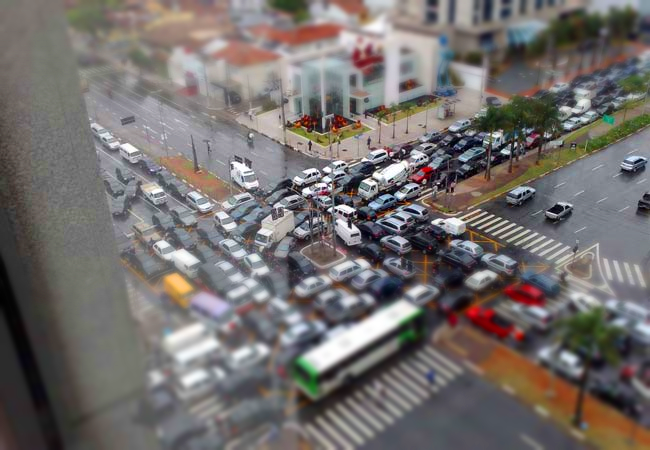
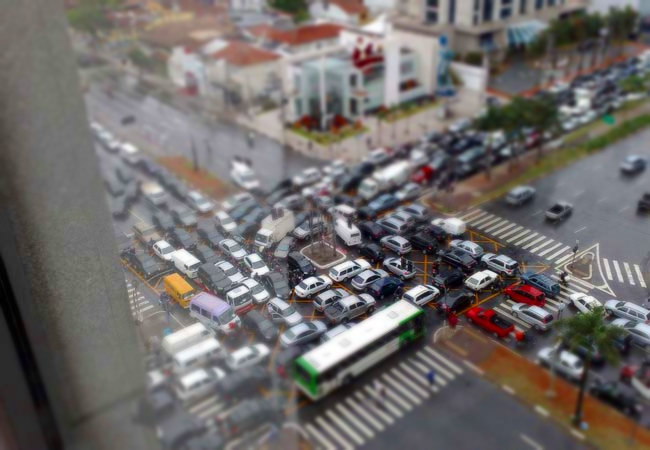
Tiltshiftvideo com efeito de stop-motion. Tilfshift com aumento de saturação.

diff --git a/DCA0445/src/tiltshift/tiltshift.cpp b/DCA0445/src/tiltshift/tiltshift.cpp
@@ -10,15 +10,42 @@ double forcaDecaimento;
 double posicaoVerticalCentro; 
 double alfa;
 
-int slideAlturaRegiaoCentral;
-int slideAlturaRegiaoCentralMax ;
-int slideForcaDecaimento;
-int slideForcaDecaimentoMax;
-int slidePosicaoVerticalCentro;
-int slidePosicaoVerticalCentroMax;
+int sliderAlturaRegiaoCentral;
+int sliderAlturaRegiaoCentralMax ;
+int sliderForcaDecaimento;
+int sliderForcaDecaimentoMax;
+int sliderPosicaoVerticalCentro;
+int sliderPosicaoVerticalCentroMax;
 
 Mat imagem, imagemBorrada, imagemFinal;
-char trackbarName[50];
+char nomeTrackbar[50];
+
+/* Faz o borramento da imagem utilizando filtro da média. */
+void borrarImagem()
+{
+    blur(imagem, imagemBorrada, Size(3, 3), Point(-1,-1));
+    blur(imagemBorrada, imagemBorrada, Size(3, 3), Point(-1,-1));
+    blur(imagemBorrada, imagemBorrada, Size(3, 3), Point(-1,-1));
+    blur(imagemBorrada, imagemBorrada, Size(3, 3), Point(-1,-1));
+    blur(imagemBorrada, imagemBorrada, Size(3, 3), Point(-1,-1));
+    blur(imagemBorrada, imagemBorrada, Size(3, 3), Point(-1,-1));
+}
+
+/* Aumenta a saturação do quadro atual. */
+void aumentarSaturacao()
+{   
+    Mat imagemHSV;
+    Mat hsv[3];
+   
+    cvtColor(imagemFinal, imagemHSV, COLOR_BGR2HSV);
+
+    split(imagemHSV, hsv);
+    hsv[1] = hsv[1] * 1.6;
+        
+    merge(hsv, 3, imagemHSV);
+    
+    cvtColor(imagemHSV, imagemFinal, COLOR_HSV2BGR);
+}
 
 /* Calcula a imagem final a partir da imagem original e de sua versão borrada,
 com as devidas ponderações escolhidas pelo usuário. */
@@ -41,28 +68,31 @@ void calcularImagemFinal()
     }
 }
 
-void alterarSlideAlturaRegiaoCentral(int, void*)
+void alterarSliderAlturaRegiaoCentral(int, void*)
 {
-    alturaRegiaoCentral = slideAlturaRegiaoCentral;
+    alturaRegiaoCentral = sliderAlturaRegiaoCentral;
     calcularImagemFinal();
+    aumentarSaturacao();
     imshow("resultado", imagemFinal);
 }
 
-void alterarSlideForcaDecaimento(int, void*)
+void alterarSliderForcaDecaimento(int, void*)
 {  
-    forcaDecaimento = slideForcaDecaimento;
+    forcaDecaimento = sliderForcaDecaimento;
     if(forcaDecaimento == 0)
     {
         forcaDecaimento = 1;
     }
     calcularImagemFinal();
+    aumentarSaturacao();
     imshow("resultado", imagemFinal);
 }
 
-void alterarSlidePosicaoVerticalCentro(int, void*)
+void alterarSliderPosicaoVerticalCentro(int, void*)
 {
-    posicaoVerticalCentro = slidePosicaoVerticalCentro;
+    posicaoVerticalCentro = sliderPosicaoVerticalCentro;
     calcularImagemFinal();
+    aumentarSaturacao();
     imshow("resultado", imagemFinal);
 }
 
@@ -89,43 +119,47 @@ int main(int argc, char* argv[]){
     namedWindow("resultado", 1);
 
     /* Primeiramente faz o borramento da imagem original. */
-    blur(imagem, imagemBorrada, Size(5, 5), Point(-1,-1));
-    blur(imagemBorrada, imagemBorrada, Size(5, 5), Point(-1,-1));
-    blur(imagemBorrada, imagemBorrada, Size(5, 5), Point(-1,-1));
+    borrarImagem();
 
-    slideAlturaRegiaoCentral = 1;
-    slideForcaDecaimento = 1;
-    slidePosicaoVerticalCentro = 1;
+    sliderAlturaRegiaoCentral = 1;
+    sliderForcaDecaimento = 1;
+    sliderPosicaoVerticalCentro = 1;
 
-    slideAlturaRegiaoCentralMax = imagemFinal.rows;
-    slidePosicaoVerticalCentroMax = imagemFinal.rows;
-    slideForcaDecaimentoMax = 100;
+    sliderAlturaRegiaoCentralMax = imagemFinal.rows;
+    sliderPosicaoVerticalCentroMax = imagemFinal.rows;
+    sliderForcaDecaimentoMax = 100;
 
     /* Cria as barras de rolagem. */
     createTrackbar("Altura", "resultado",
-        &slideAlturaRegiaoCentral,
-        slideAlturaRegiaoCentralMax,
-        alterarSlideAlturaRegiaoCentral);
-    alterarSlideAlturaRegiaoCentral(slideAlturaRegiaoCentral, 0);
-    
+        &sliderAlturaRegiaoCentral,
+        sliderAlturaRegiaoCentralMax,
+        alterarSliderAlturaRegiaoCentral);
+    alterarSliderAlturaRegiaoCentral(sliderAlturaRegiaoCentral, 0);
     
     createTrackbar("Decaimento", "resultado",
-        &slideForcaDecaimento,
-        slideForcaDecaimentoMax,
-        alterarSlideForcaDecaimento );
-    alterarSlideForcaDecaimento(slideForcaDecaimento, 0);
+        &sliderForcaDecaimento,
+        sliderForcaDecaimentoMax,
+        alterarSliderForcaDecaimento );
+    alterarSliderForcaDecaimento(sliderForcaDecaimento, 0);
 
     createTrackbar( "Centro", "resultado",
-        &slidePosicaoVerticalCentro,
-        slidePosicaoVerticalCentroMax,
-        alterarSlidePosicaoVerticalCentro );
-    alterarSlidePosicaoVerticalCentro(slidePosicaoVerticalCentro, 0);
+        &sliderPosicaoVerticalCentro,
+        sliderPosicaoVerticalCentroMax,
+        alterarSliderPosicaoVerticalCentro );
+    alterarSliderPosicaoVerticalCentro(sliderPosicaoVerticalCentro, 0);
 
     /* Fecha o programa quando o usuário digita ESC. */
     while(1)
     {
-      if( waitKey(30) == 27 ) break; 
-  }
+      if(waitKey(30) >= 0) 
+      {
+        break;
+      } 
+    }
+    
+    /* Salva a imagem processada. */
+    imwrite("saida.png", imagemFinal);
+    
 
   return 0;
 }

diff --git a/DCA0445/src/tiltshiftvideo/tiltshiftvideo.cpp b/DCA0445/src/tiltshiftvideo/tiltshiftvideo.cpp
@@ -1,7 +1,6 @@
 #include <iostream>
 #include <opencv2/opencv.hpp>
 #include <cmath>
-#include <string>
 
 using namespace cv;
 using namespace std;
@@ -28,6 +27,8 @@ char nomeTrackbar[50];
 void borrarImagem()
 {
     blur(imagem, imagemBorrada, Size(3, 3), Point(-1,-1));
+    blur(imagemBorrada, imagemBorrada, Size(3, 3), Point(-1,-1));
+    blur(imagemBorrada, imagemBorrada, Size(3, 3), Point(-1,-1));
     blur(imagemBorrada, imagemBorrada, Size(3, 3), Point(-1,-1));
     blur(imagemBorrada, imagemBorrada, Size(3, 3), Point(-1,-1));
     blur(imagemBorrada, imagemBorrada, Size(3, 3), Point(-1,-1));
@@ -97,7 +98,7 @@ void alterarSliderPosicaoVerticalCentro(int, void*)
 
 int main(int argc, char* argv[])
 {
-    int largura, altura, fourcc;
+    int largura, altura, fourcc, contador;
     double fps, quantidadeTotalQuadros, quadroAtual, percentagem;
 
     /* Verifica o número de argumentos.  */
@@ -115,10 +116,6 @@ int main(int argc, char* argv[])
         cout << "O vídeo não pôde ser aberta." << endl;
         return -2;
     }
-    
-    string nomeArquivoCompleto(argv[1]);
-    size_t indicePonto = nomeArquivoCompleto.find_last_of("."); 
-    string nomeArquivo = nomeArquivoCompleto.substr(0, indicePonto); 
     
     /* Obtém algumas propriedades do vídeo carregado. */
     largura = cap.get(CV_CAP_PROP_FRAME_WIDTH);
@@ -183,14 +180,23 @@ int main(int argc, char* argv[])
     
     /* Sobrescrevendo por falta de suporte ao MP4. */
     fourcc = CV_FOURCC('P','I','M','1');
-    saida = VideoWriter(nomeArquivo + ".mpg", fourcc, fps, Size(largura, altura));   
+    saida = VideoWriter("saida.mpg", fourcc, fps, Size(largura, altura));   
     
     /* Escreve o primeiro quadro. */
     saida << imagemFinal;
-        
+    
+    contador = 0;
     while(1)
     {
         cap >> imagem; 
+        
+        /* Simula o efeito de stop-motion. */
+        if(contador < 3)
+        {
+            saida << imagemFinal;
+            contador++;
+            continue;
+        }
         
         /* Verifica se a imagem foi toda processada. */
         if (imagem.empty())
@@ -208,8 +214,11 @@ int main(int argc, char* argv[])
         quadroAtual = cap.get(CV_CAP_PROP_POS_FRAMES);
         percentagem = 100*quadroAtual/quantidadeTotalQuadros;
         
+        /* Exibe o progresso atual do processamento. */
         cout << "[2] Processando vídeo... " << round(percentagem) << " % \r";
         cout.flush();
+        
+        contador = 0;
     }
     
     cap.release();
